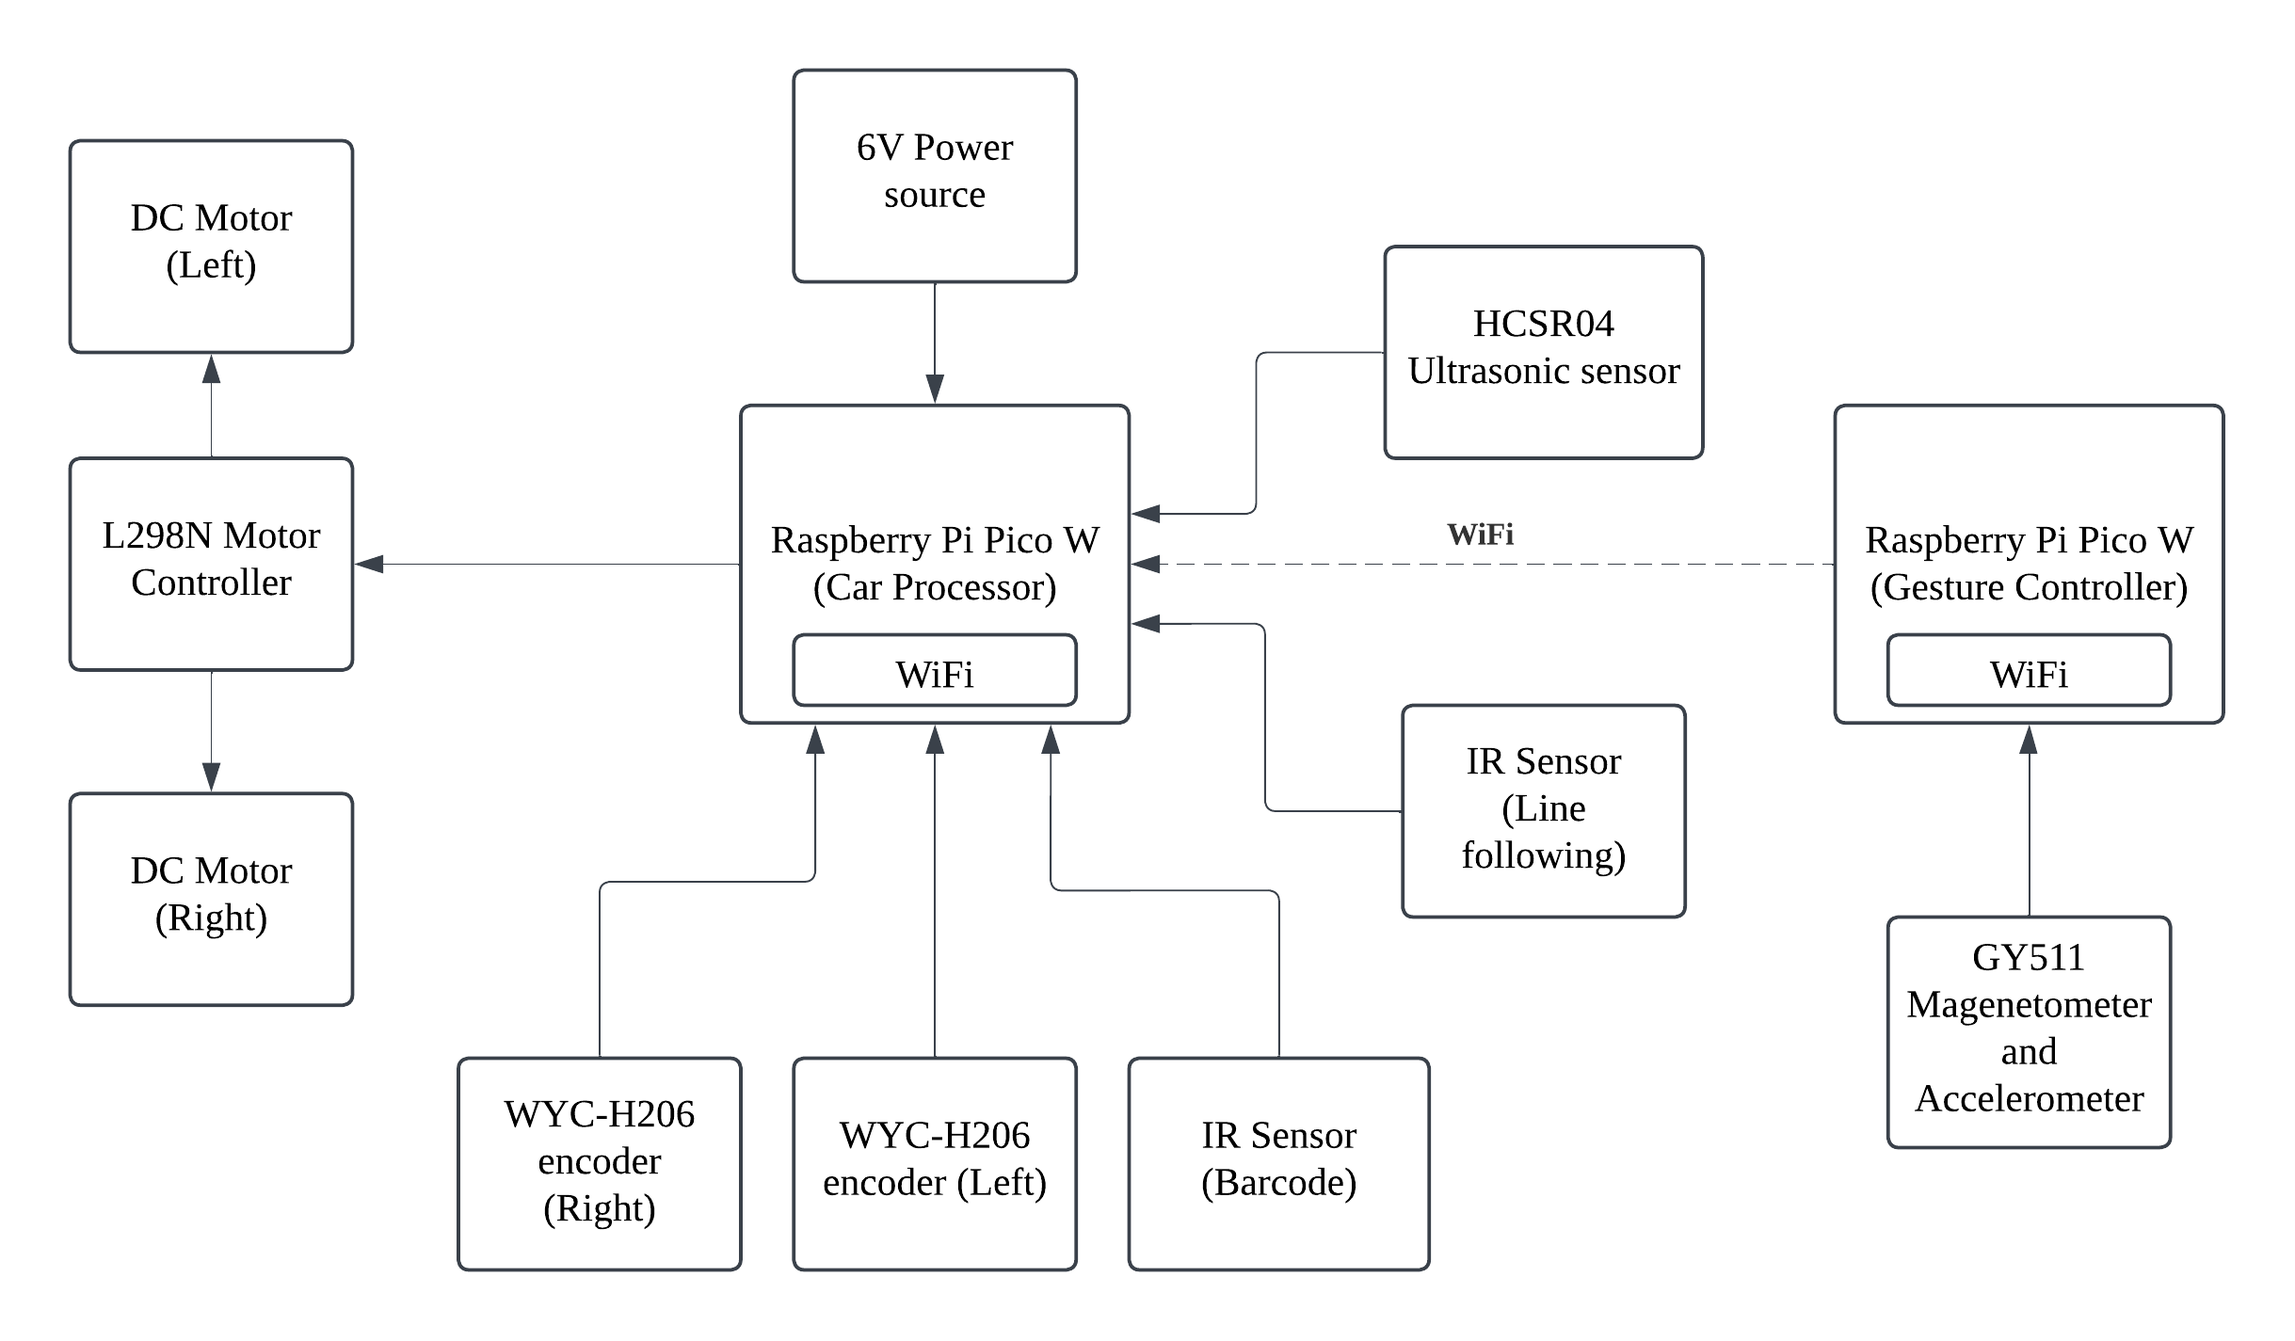
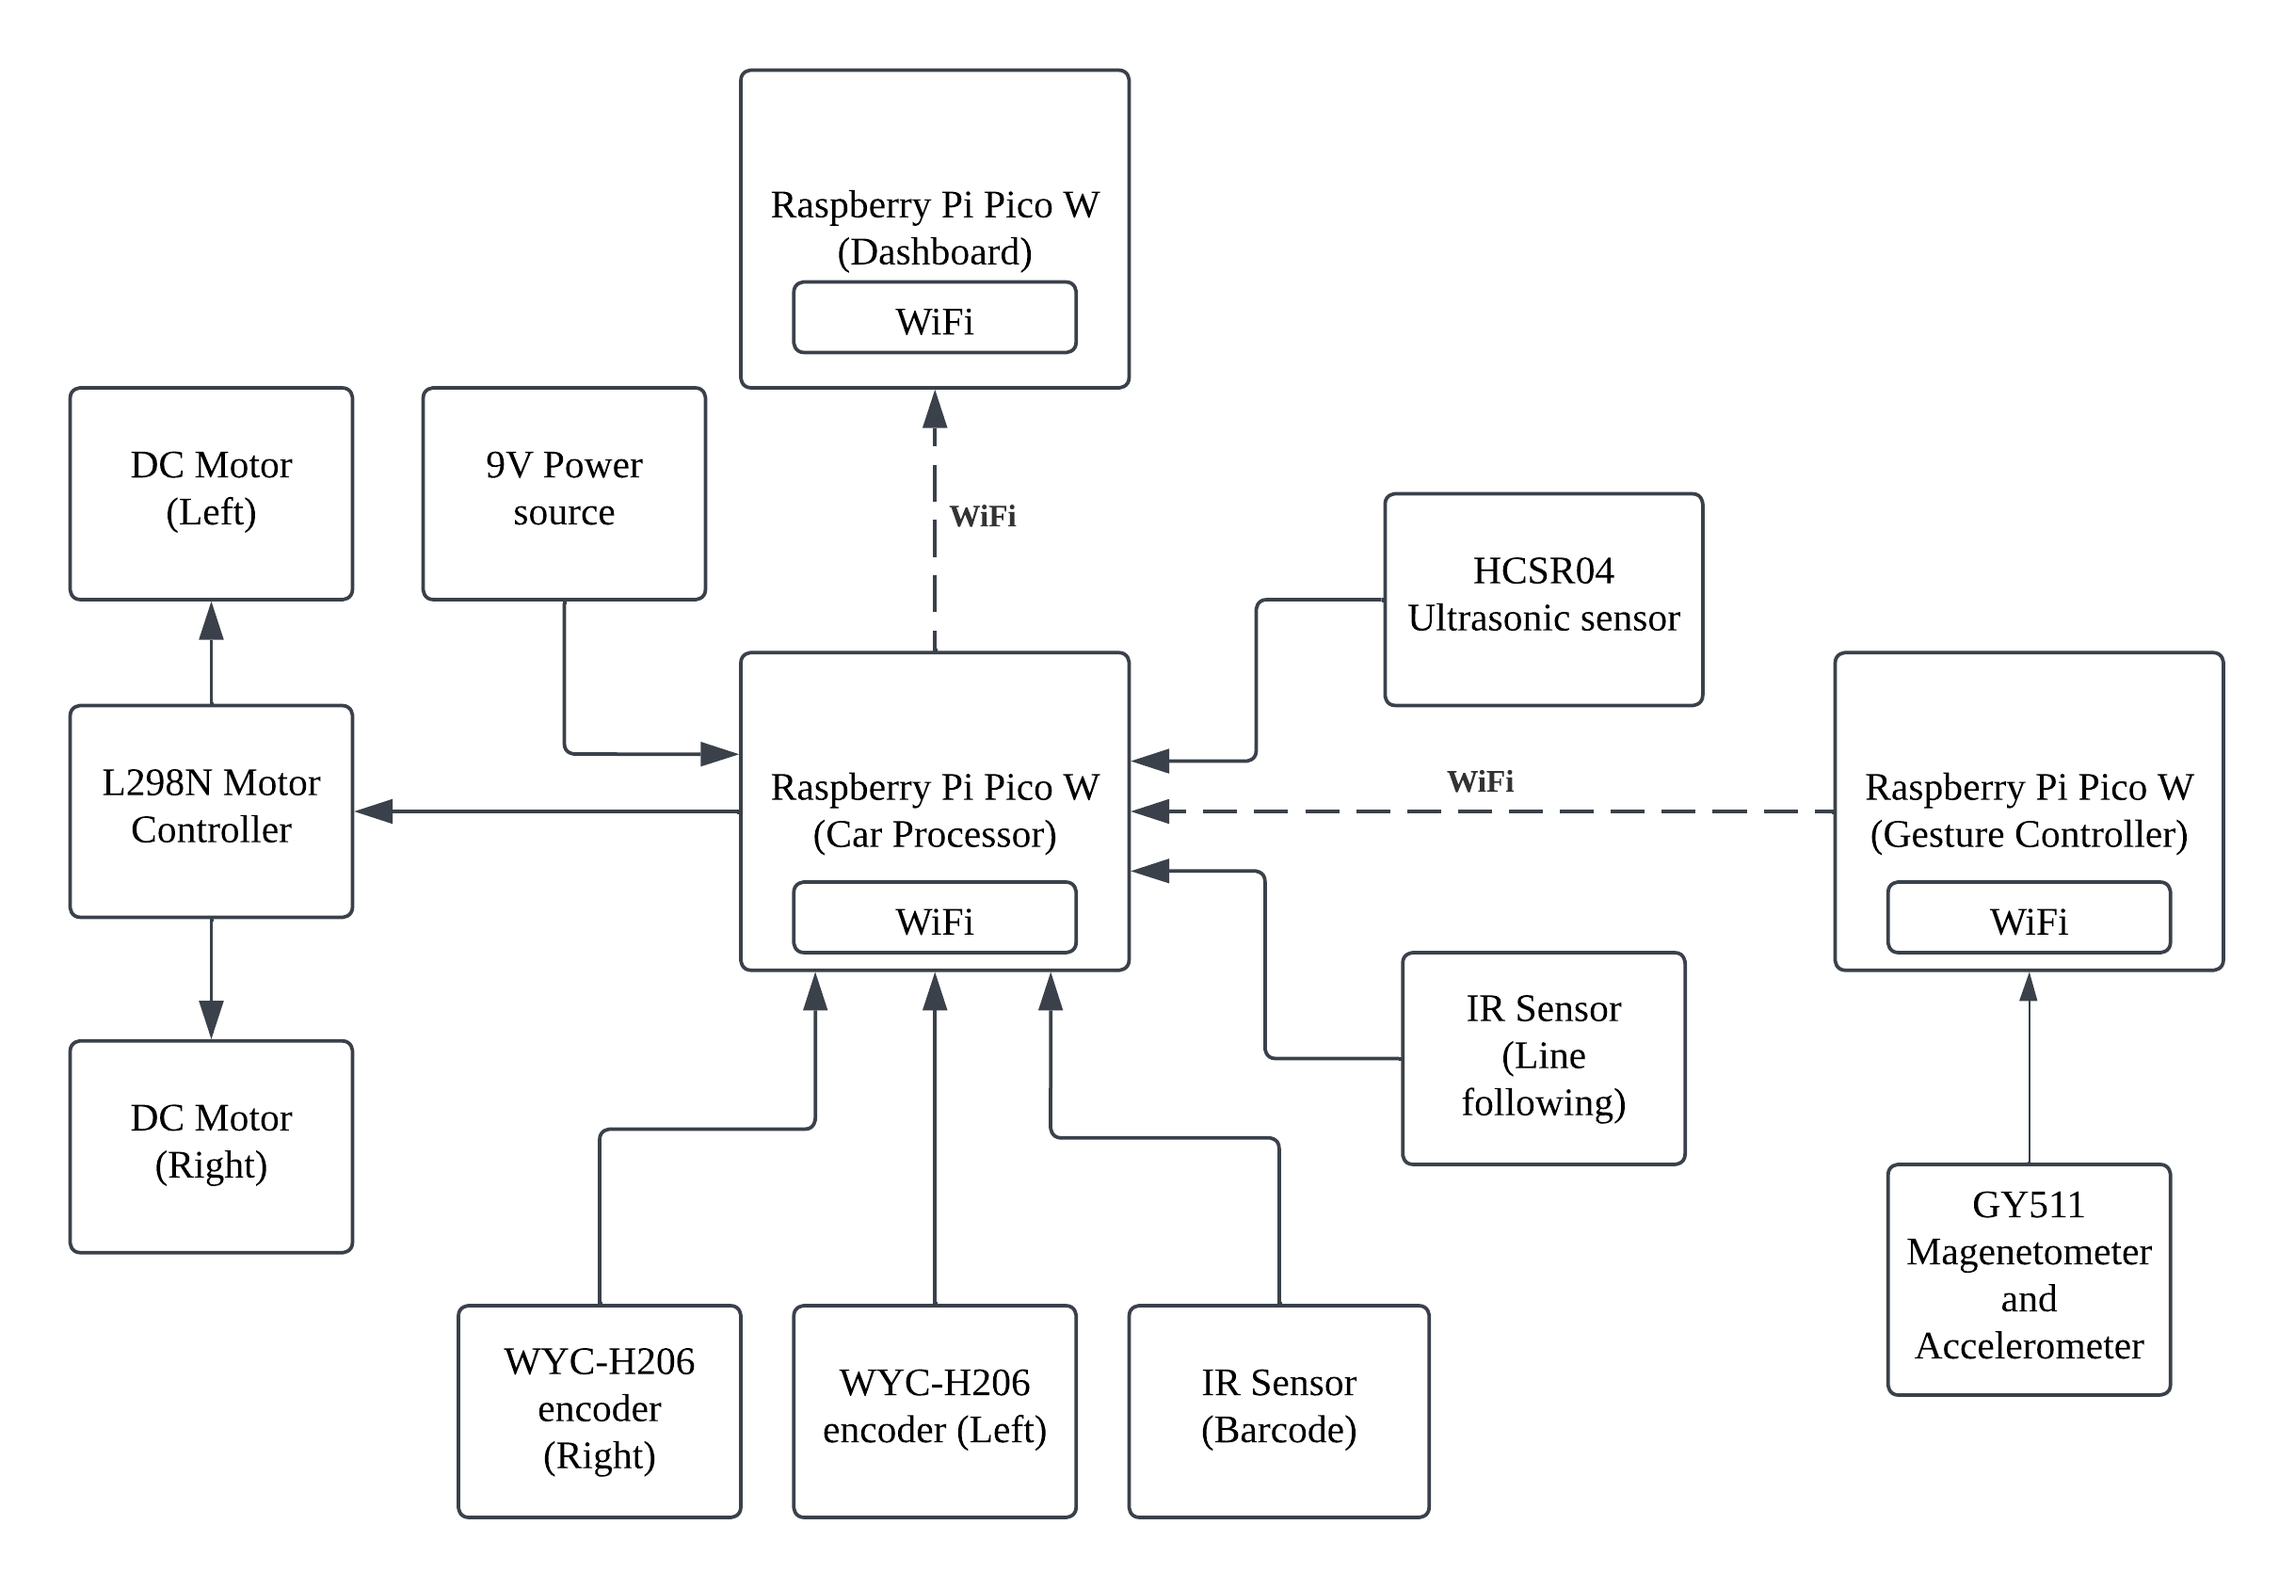
final update to README and diagram

diff --git a/README.md b/README.md
@@ -23,10 +23,31 @@ A robotic car with the following features:
 - Make sure you are working in 'Pico - Visual Studio Code'
 - Make sure the folder is called 'robotic_car'
 - 3 Picos (For Car, Remote, and Dashboard)
-- Change the parameters in 'wifi.c' line 236 to your Wifi or Hotspot SSID and password
+- Change the parameters in 'wifi.c' line 190 to your Wifi or Hotspot SSID and password
 
 ```
 cyw43_arch_wifi_connect_timeout_ms(YOUR_HOTSPOT_SSID, YOUR_HOTSPOT_PASSWORD, CYW43_AUTH_WPA2_AES_PSK, 30000)
+```
+
+- Change the WIFI_SSID and WIFI_PASSWORD in 'CMakeLists.txt' line 65-66 and 101-102 to your Wifi or Hotspot SSID and password
+
+```
+target_compile_definitions(robotic_car_wifi PRIVATE
+        WIFI_SSID=\"Matt\"
+        WIFI_PASSWORD=\"whyyoustealingmydata\"
+        NO_SYS=0            # don't want NO_SYS (generally this would be in your lwipopts.h)
+        LWIP_SOCKET=1       # we need the socket API (generally this would be in your lwipopts.h)
+        PING_USE_SOCKETS=1
+        )
+
+target_compile_definitions(remote_wifi PRIVATE
+        STATIC_IP=1    # uncomment this to disable dhcp client and use static ip addr. must be used in conjunction with PICO_ROLE
+        PICO_ROLE=1    # uncomment this to set the appropriate static ip. refer to lwipopts_examples_common.h for more info
+        WIFI_SSID=\"Matt\"
+        WIFI_PASSWORD=\"whyyoustealingmydata\"
+        NO_SYS=0            # don't want NO_SYS (generally this would be in your lwipopts.h)
+        LWIP_SOCKET=1       # we need the socket API (generally this would be in your lwipopts.h)
+        )
 ```
 
 
